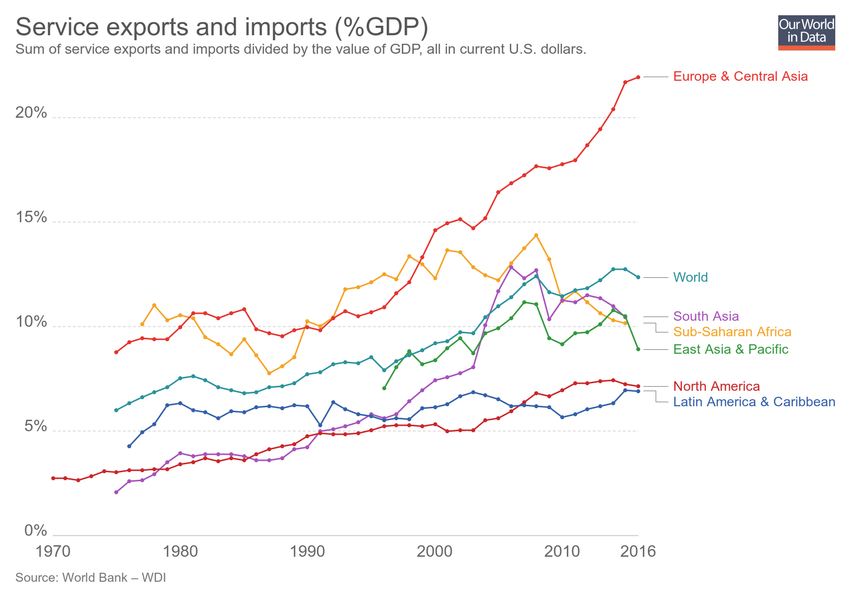
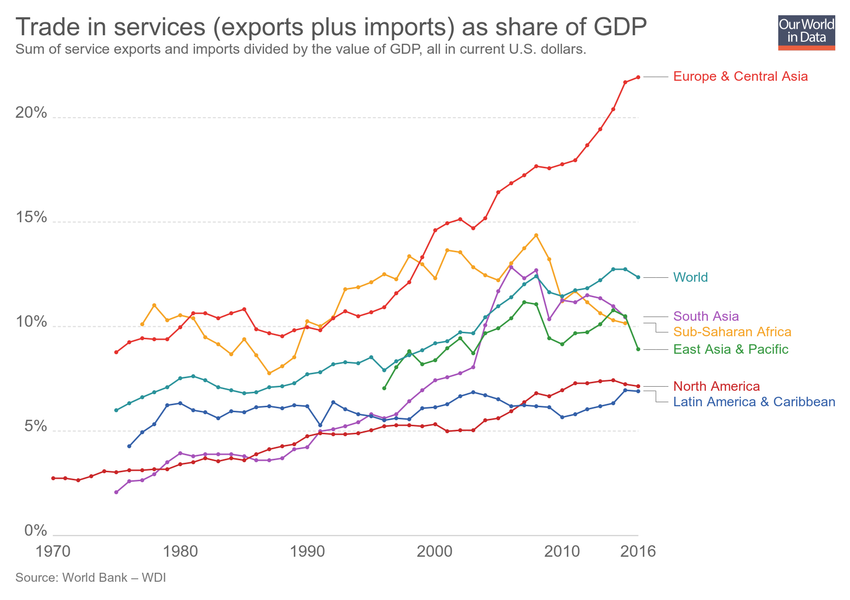
Updating chart service-exports-and-imports-gdp

Changed region(s): [[0.0, 0.03, 0.7647, 0.06]]

diff --git a/grapher/service-exports-and-imports-gdp.html b/grapher/service-exports-and-imports-gdp.html
@@ -1,4 +1,4 @@
-<!doctype html><html><head><meta name="viewport" content="width=device-width, initial-scale=1" /><title>Service exports and imports (%GDP) - Our World in Data</title><meta name="description" content="Sum of service exports and imports divided by the value of GDP, all in current U.S. dollars." /><link rel="canonical" href="https://ourworldindata.org/grapher/service-exports-and-imports-gdp" /><meta property="fb:app_id" content="1149943818390250" /><meta property="og:url" content="https://ourworldindata.org/grapher/service-exports-and-imports-gdp" /><meta property="og:title" content="Service exports and imports (%GDP)" /><meta property="og:description" content="Sum of service exports and imports divided by the value of GDP, all in current U.S. dollars." /><meta property="og:image" content="https://ourworldindata.org/grapher/exports/service-exports-and-imports-gdp.png?v=2" /><meta property="og:image:width" content="850" /><meta property="og:image:height" content="600" /><meta property="og:site_name" content="Our World in Data" /><meta name="twitter:card" content="summary_large_image" /><meta name="twitter:site" content="@OurWorldInData" /><meta name="twitter:creator" content="@OurWorldInData" /><meta name="twitter:title" content="Service exports and imports (%GDP)" /><meta name="twitter:description" content="Sum of service exports and imports divided by the value of GDP, all in current U.S. dollars." /><meta name="twitter:image" content="https://ourworldindata.org/grapher/exports/service-exports-and-imports-gdp.png?v=2" /><style>
+<!doctype html><html><head><meta name="viewport" content="width=device-width, initial-scale=1" /><title>Trade in services (exports plus imports) as share of GDP - Our World in Data</title><meta name="description" content="Sum of service exports and imports divided by the value of GDP, all in current U.S. dollars." /><link rel="canonical" href="https://ourworldindata.org/grapher/service-exports-and-imports-gdp" /><meta property="fb:app_id" content="1149943818390250" /><meta property="og:url" content="https://ourworldindata.org/grapher/service-exports-and-imports-gdp" /><meta property="og:title" content="Trade in services (exports plus imports) as share of GDP" /><meta property="og:description" content="Sum of service exports and imports divided by the value of GDP, all in current U.S. dollars." /><meta property="og:image" content="https://ourworldindata.org/grapher/exports/service-exports-and-imports-gdp.png?v=3" /><meta property="og:image:width" content="850" /><meta property="og:image:height" content="600" /><meta property="og:site_name" content="Our World in Data" /><meta name="twitter:card" content="summary_large_image" /><meta name="twitter:site" content="@OurWorldInData" /><meta name="twitter:creator" content="@OurWorldInData" /><meta name="twitter:title" content="Trade in services (exports plus imports) as share of GDP" /><meta name="twitter:description" content="Sum of service exports and imports divided by the value of GDP, all in current U.S. dollars." /><meta name="twitter:image" content="https://ourworldindata.org/grapher/exports/service-exports-and-imports-gdp.png?v=3" /><style>
         html, body {
             height: 100%;
             margin: 0;
@@ -20,8 +20,8 @@
         }
     </style><noscript><style>
                     figure { display: none !important; }
-                </style></noscript><link rel="stylesheet" href="https://ourworldindata.org/grapher/assets/commons.bundle.521782e703f0fe72f108.css" /><link rel="preload" href="/grapher/data/variables/2344.json?v=2" as="fetch" crossorigin /></head><body class="singleChart"><figure data-grapher-src="/grapher/service-exports-and-imports-gdp"></figure><noscript id="fallback"><img src="/grapher/exports/service-exports-and-imports-gdp.svg" /><p>Interactive visualization requires JavaScript</p></noscript><script src="https://cdn.polyfill.io/v2/polyfill.min.js?features=es6,fetch"></script><script src="https://ourworldindata.org/grapher/assets/commons.bundle.521782e703f0fe72f108.js"></script><script src="https://ourworldindata.org/grapher/assets/charts.bundle.521782e703f0fe72f108.js"></script><script>
-        var jsonConfig = {"id":3136,"map":{"projection":"World","targetYear":2016,"variableId":2344,"timeTolerance":5,"baseColorScheme":"YlOrRd","colorSchemeLabels":[],"colorSchemeValues":[],"customNumericColors":[],"customCategoryColors":{},"customCategoryLabels":{},"customHiddenCategories":{}},"tab":"chart","slug":"service-exports-and-imports-gdp","type":"LineChart","title":"Service exports and imports (%GDP)","xAxis":{"scaleType":"linear"},"yAxis":{"min":0,"scaleType":"linear"},"version":2,"subtitle":"Sum of service exports and imports divided by the value of GDP, all in current U.S. dollars.","hasMapTab":true,"stackMode":"absolute","dimensions":[{"display":{},"property":"y","variableId":2344}],"hasChartTab":true,"isPublished":true,"selectedData":[{"index":0,"entityId":289},{"index":0,"entityId":302},{"index":0,"entityId":345},{"index":0,"entityId":294},{"index":0,"entityId":344},{"index":0,"entityId":4676},{"index":0,"entityId":355}],"addCountryMode":"add-country"};
+                </style></noscript><link rel="stylesheet" href="https://ourworldindata.org/grapher/assets/commons.bundle.521782e703f0fe72f108.css" /><link rel="preload" href="/grapher/data/variables/2344.json?v=3" as="fetch" crossorigin /></head><body class="singleChart"><figure data-grapher-src="/grapher/service-exports-and-imports-gdp"></figure><noscript id="fallback"><img src="/grapher/exports/service-exports-and-imports-gdp.svg" /><p>Interactive visualization requires JavaScript</p></noscript><script src="https://cdn.polyfill.io/v2/polyfill.min.js?features=es6,fetch"></script><script src="https://ourworldindata.org/grapher/assets/commons.bundle.521782e703f0fe72f108.js"></script><script src="https://ourworldindata.org/grapher/assets/charts.bundle.521782e703f0fe72f108.js"></script><script>
+        var jsonConfig = {"id":3136,"map":{"projection":"World","targetYear":2016,"variableId":2344,"timeTolerance":5,"baseColorScheme":"YlOrRd","colorSchemeLabels":[],"colorSchemeValues":[],"customNumericColors":[],"customCategoryColors":{},"customCategoryLabels":{},"customHiddenCategories":{}},"tab":"chart","slug":"service-exports-and-imports-gdp","type":"LineChart","title":"Trade in services (exports plus imports) as share of GDP","xAxis":{"scaleType":"linear"},"yAxis":{"min":0,"scaleType":"linear"},"version":3,"subtitle":"Sum of service exports and imports divided by the value of GDP, all in current U.S. dollars.","hasMapTab":true,"stackMode":"absolute","dimensions":[{"display":{},"property":"y","variableId":2344}],"hasChartTab":true,"isPublished":true,"selectedData":[{"index":0,"entityId":289},{"index":0,"entityId":302},{"index":0,"entityId":345},{"index":0,"entityId":294},{"index":0,"entityId":344},{"index":0,"entityId":4676},{"index":0,"entityId":355}],"addCountryMode":"add-country"};
         var figure = document.getElementsByTagName("figure")[0];
         try {
             window.App = {};
